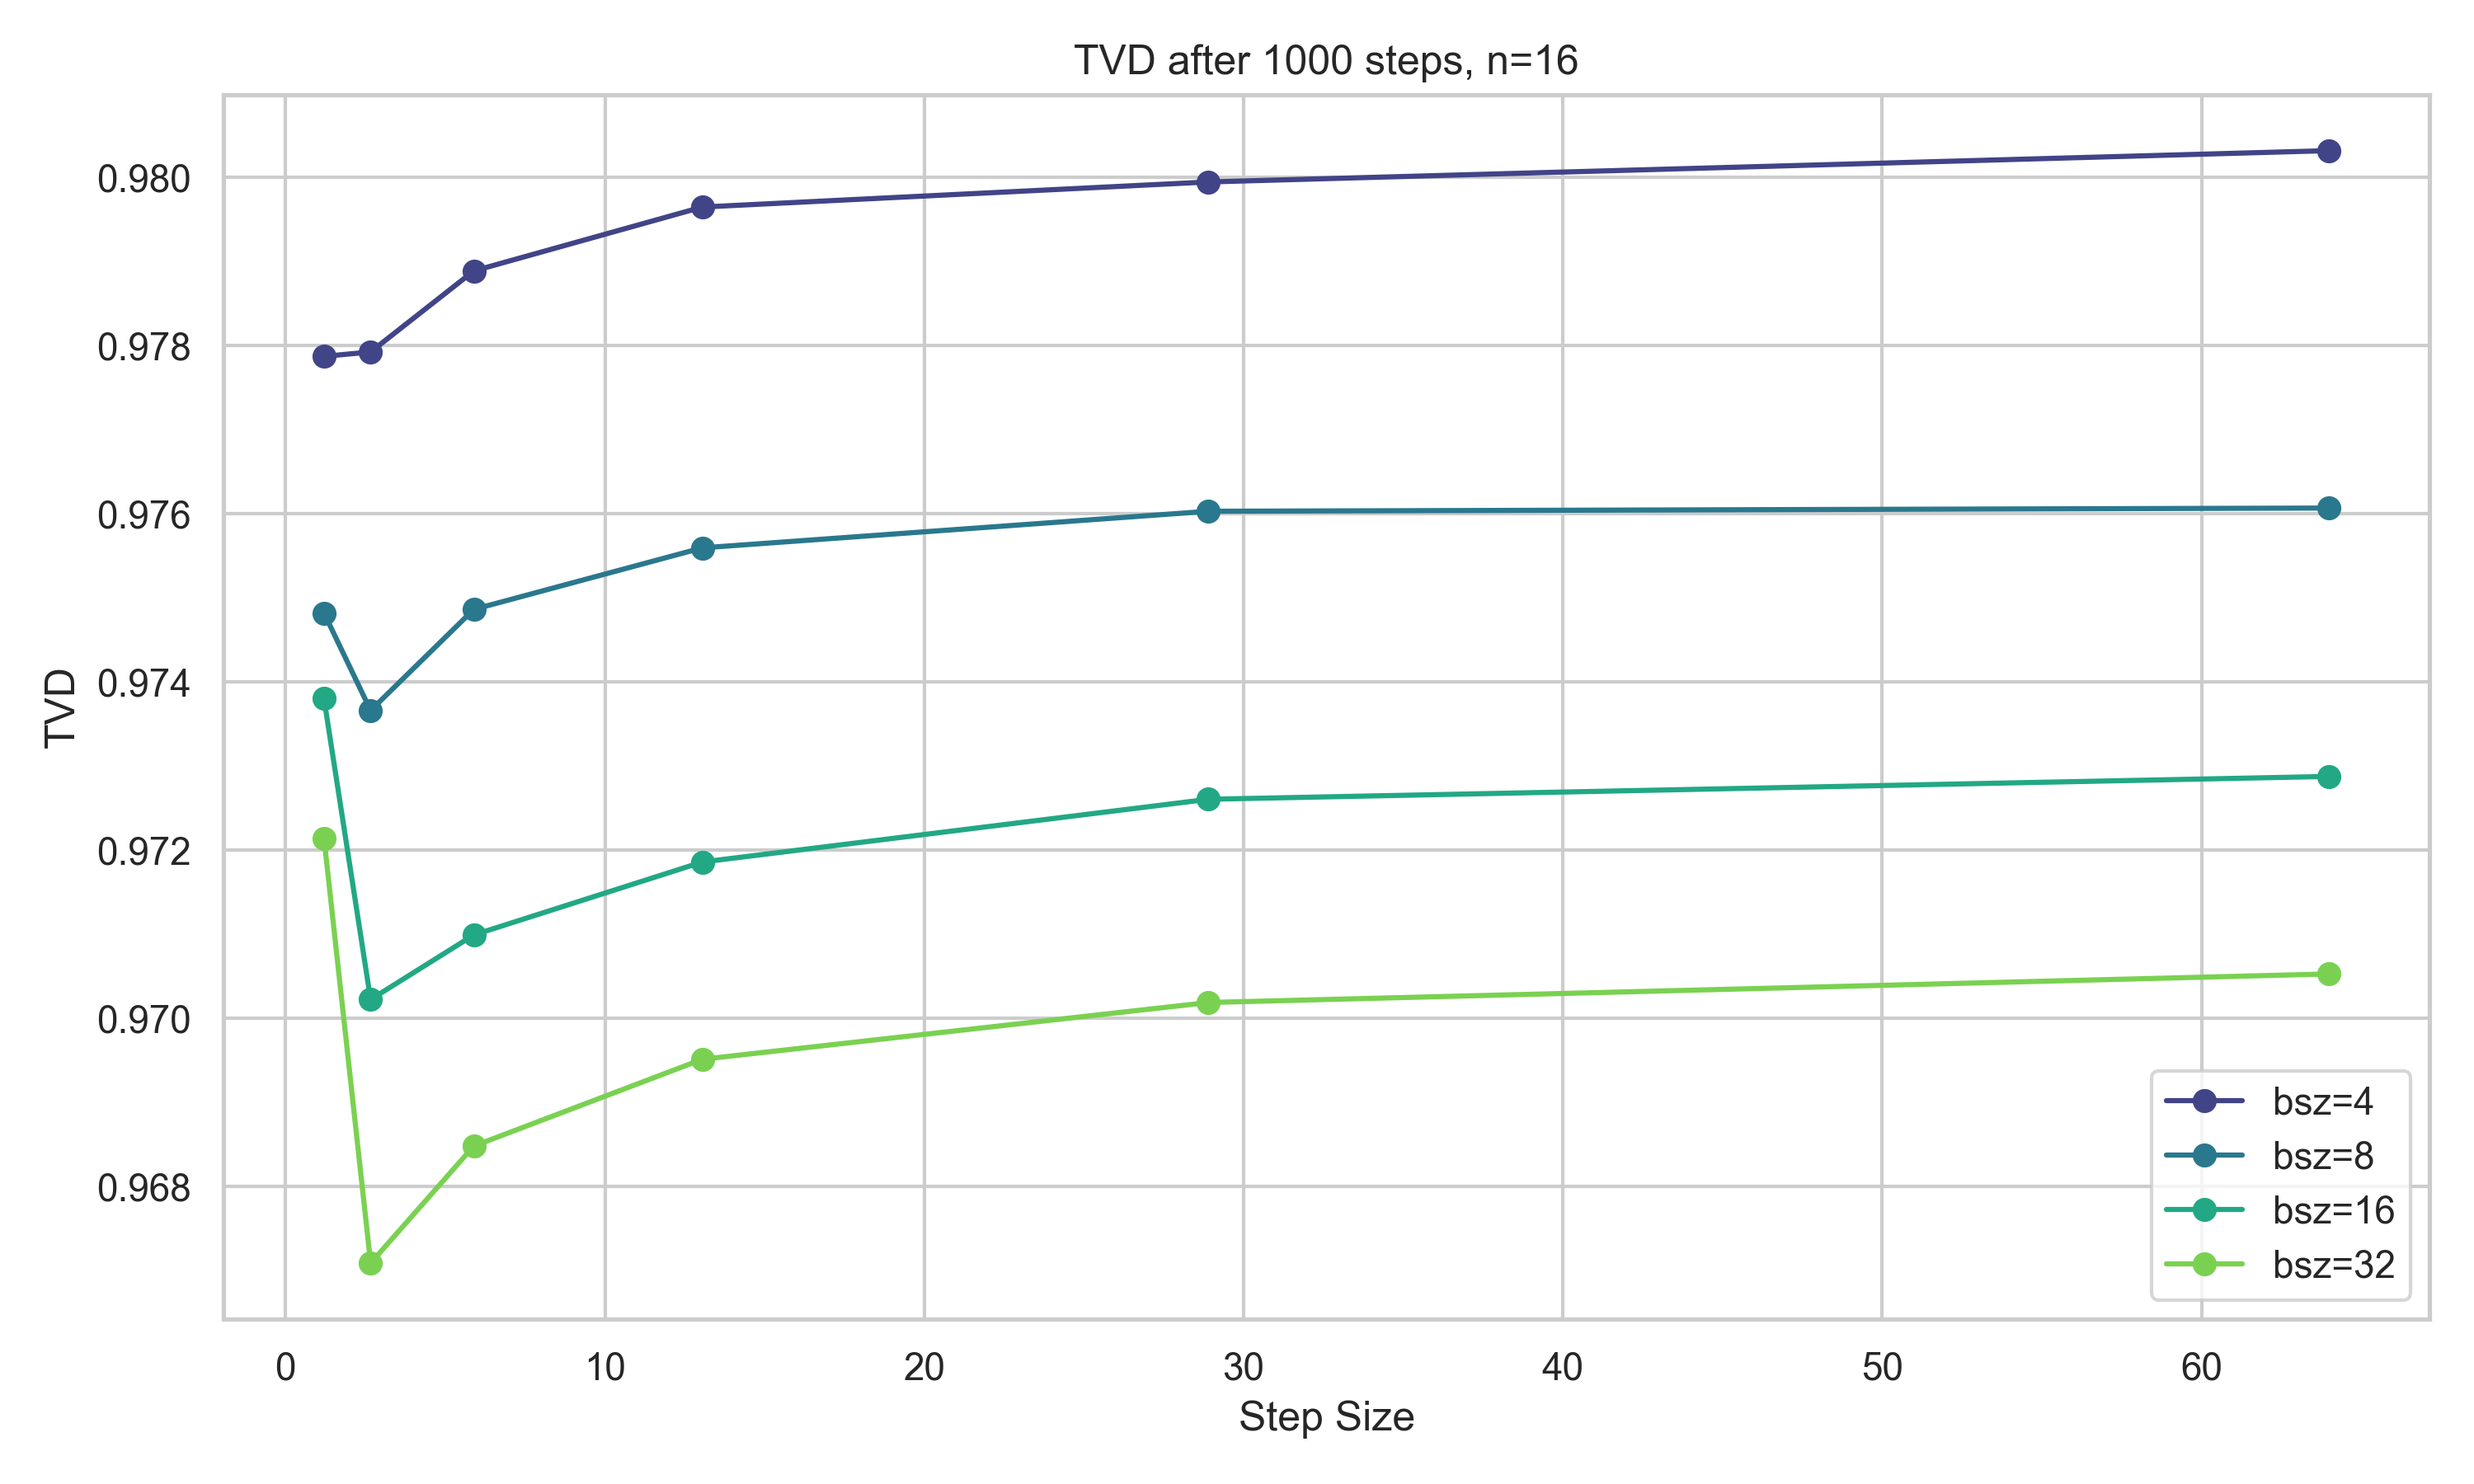
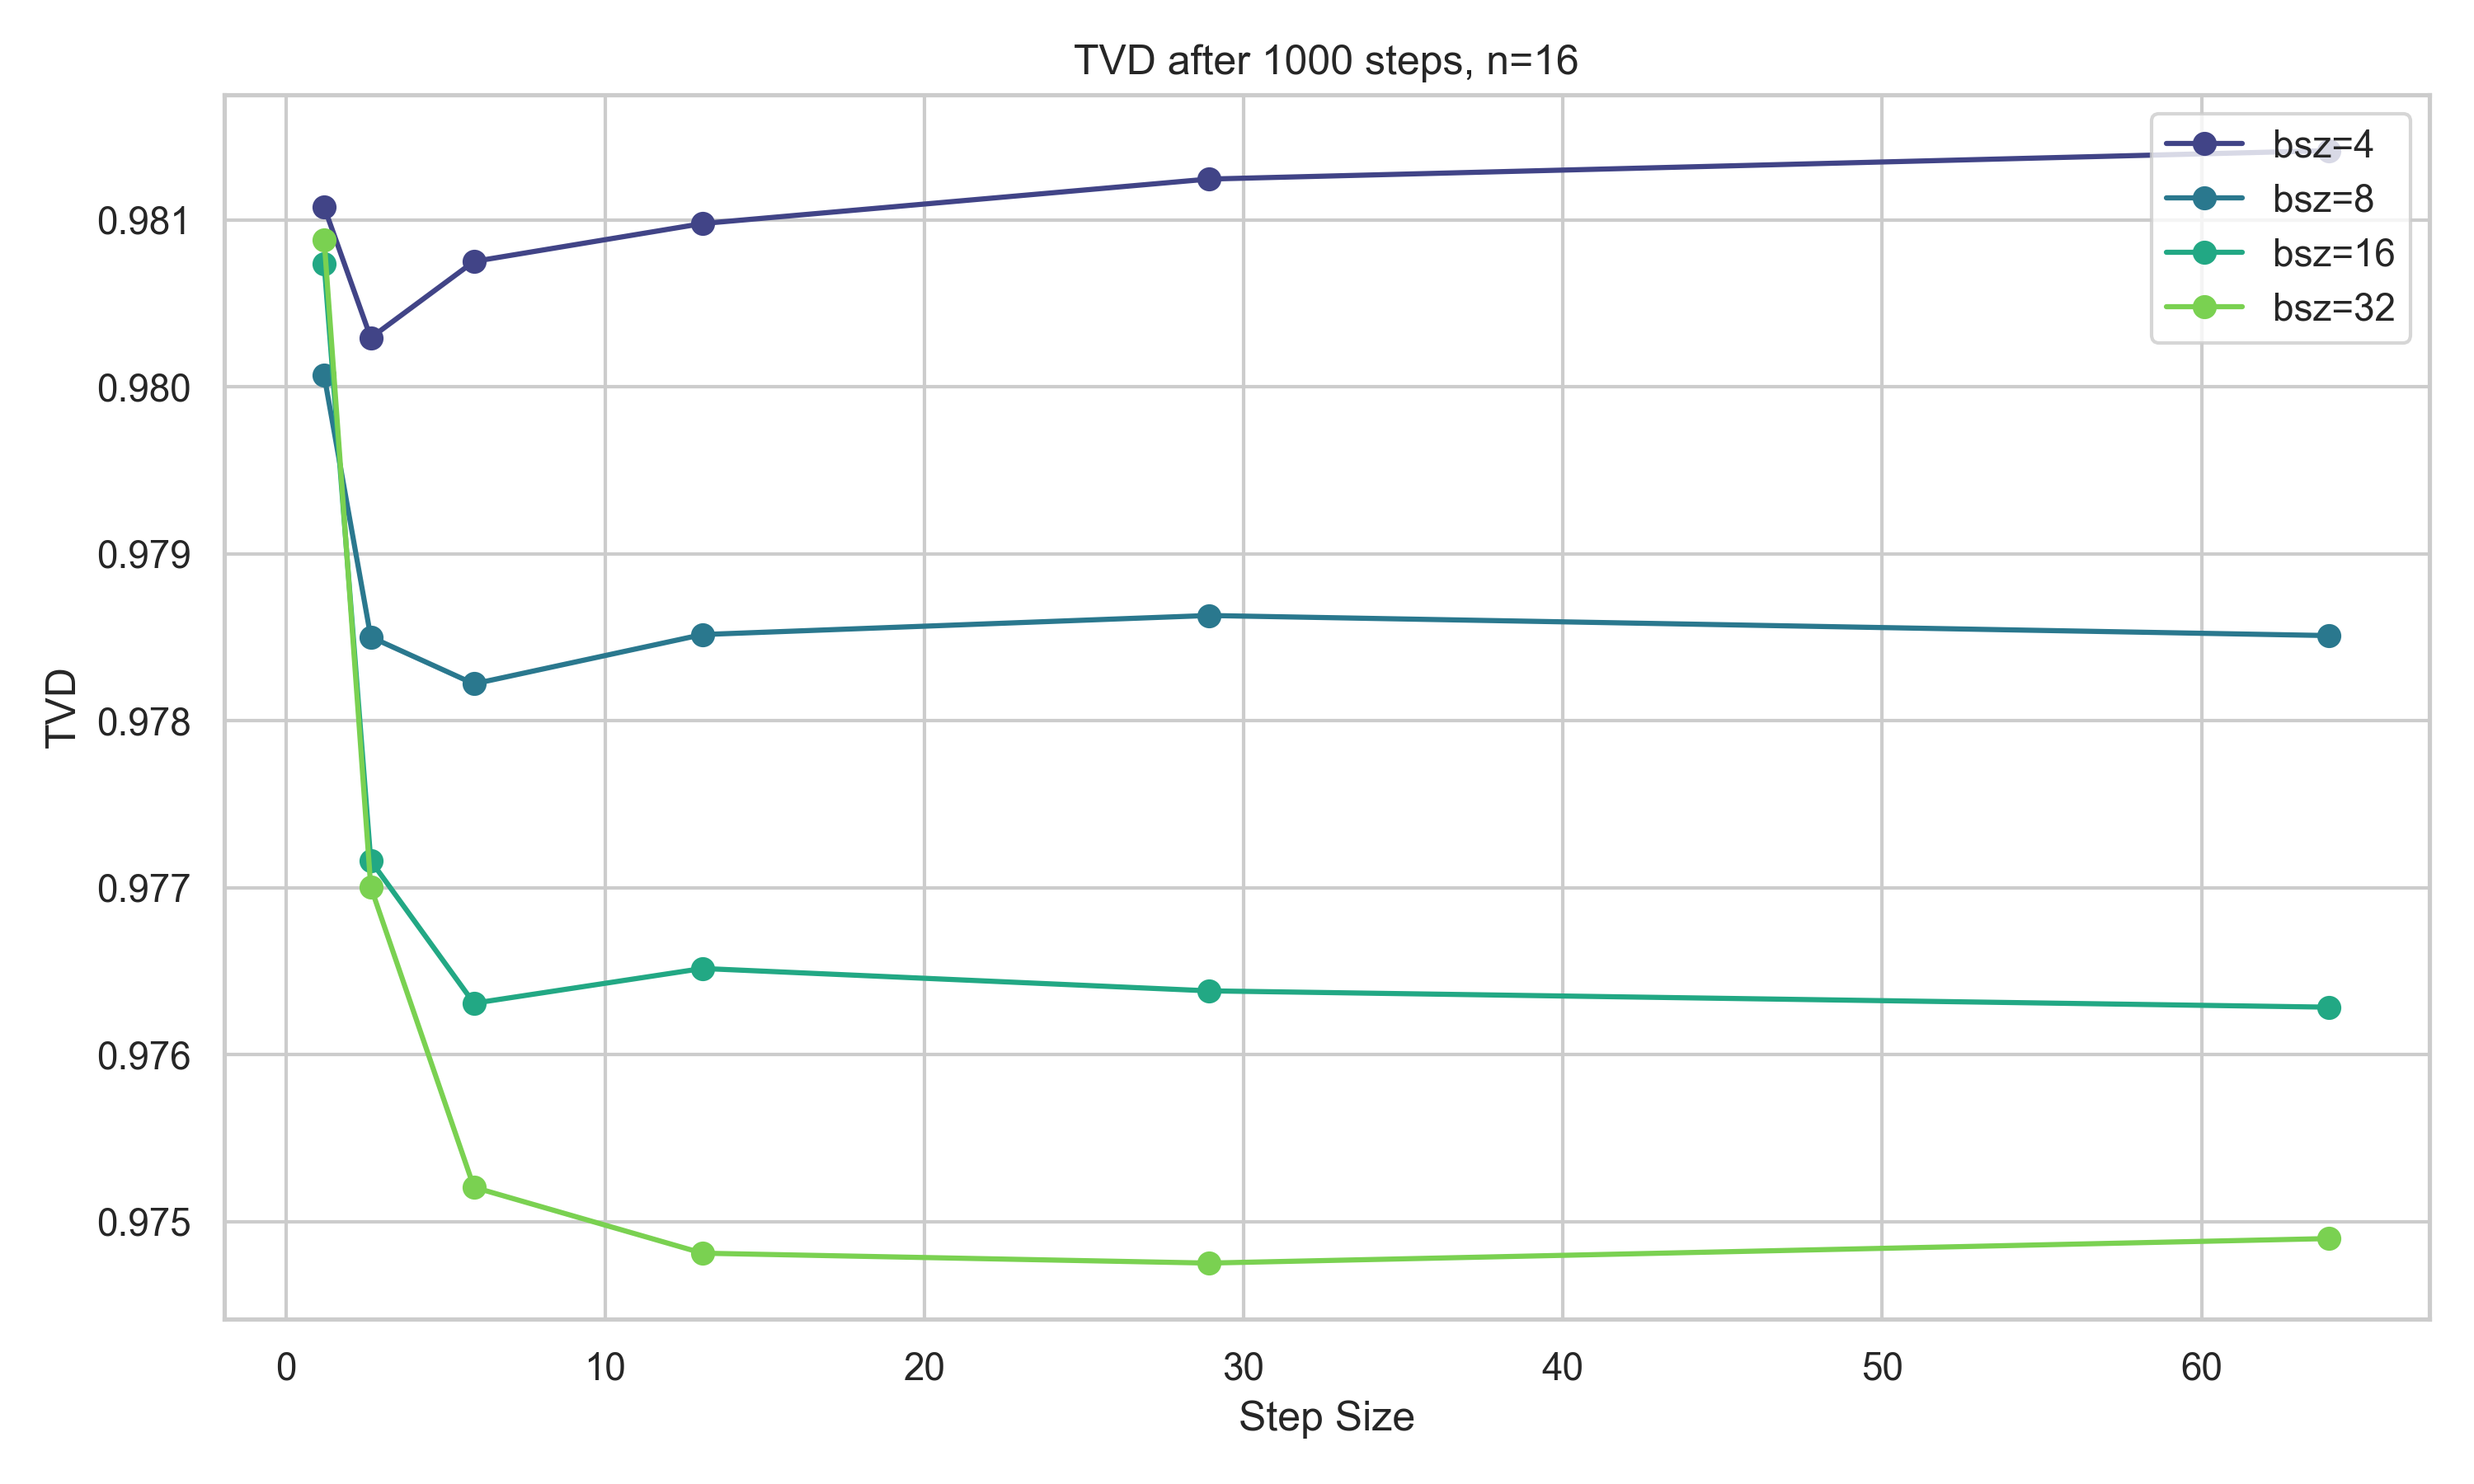
new figures and numbers after fixing mtm bug

diff --git a/repl/ising_repl.py b/repl/ising_repl.py
@@ -1,43 +1,61 @@
-# %%
-import json
-import pandas as pd
-from tabulate import tabulate
+# # %%
+# import json
+# import pandas as pd
+# from tabulate import tabulate
 
-with open('dumps/ising/tune_mtm_pncg.json') as f:
-    mtm_results = json.load(f)
+# with open('dumps/ising/tune_mtm_pncg.json') as f:
+#     mtm_results = json.load(f)
 
-df = pd.DataFrame(mtm_results)
+# df = pd.DataFrame(mtm_results)
 
-agg_df = df.groupby(['seqlen', 'num_samples', 'alpha']).agg(
-    mean_final_tvd=('final_tvd', 'mean'),
-    std_final_tvd=('final_tvd', 'std'),
-    mean_accept_rate=('accept_rate', 'mean'),
-    mean_wallclock=('wallclock', 'mean')
-).reset_index()
+# agg_df = df.groupby(['seqlen', 'num_samples', 'alpha']).agg(
+#     mean_final_tvd=('final_tvd', 'mean'),
+#     std_final_tvd=('final_tvd', 'std'),
+#     mean_accept_rate=('accept_rate', 'mean'),
+#     mean_wallclock=('wallclock', 'mean')
+# ).reset_index()
 
-def format_table(data):
-    formatted_data = data.copy()
-    formatted_data['alpha'] = formatted_data['alpha'].map(lambda x: f"{x:.4f}")
-    formatted_data['mean_final_tvd'] = formatted_data['mean_final_tvd'].map(lambda x: f"{x:.6f}")
-    formatted_data['std_final_tvd'] = formatted_data['std_final_tvd'].map(lambda x: f"{x:.6f}")
-    formatted_data['mean_accept_rate'] = formatted_data['mean_accept_rate'].map(lambda x: f"{x:.2%}")
-    formatted_data['mean_wallclock'] = formatted_data['mean_wallclock'].map(lambda x: f"{x:.4f}s")
+# def format_table(data):
+#     formatted_data = data.copy()
+#     formatted_data['alpha'] = formatted_data['alpha'].map(lambda x: f"{x:.4f}")
+#     formatted_data['mean_final_tvd'] = formatted_data['mean_final_tvd'].map(lambda x: f"{x:.6f}")
+#     formatted_data['std_final_tvd'] = formatted_data['std_final_tvd'].map(lambda x: f"{x:.6f}")
+#     formatted_data['mean_accept_rate'] = formatted_data['mean_accept_rate'].map(lambda x: f"{x:.2%}")
+#     formatted_data['mean_wallclock'] = formatted_data['mean_wallclock'].map(lambda x: f"{x:.4f}s")
 
-    if 'seqlen' in formatted_data.columns:
-        formatted_data = formatted_data.drop(columns=['seqlen'])
+#     if 'seqlen' in formatted_data.columns:
+#         formatted_data = formatted_data.drop(columns=['seqlen'])
 
-    return formatted_data
+#     return formatted_data
 
-unique_seqlens = sorted(agg_df['seqlen'].unique())
+# unique_seqlens = sorted(agg_df['seqlen'].unique())
 
-for seqlen in unique_seqlens:
-    print(f"\n## Sequence Length = {seqlen}\n")
-    seqlen_data = agg_df[agg_df['seqlen'] == seqlen]
-    seqlen_data = seqlen_data.sort_values(['num_samples', 'alpha'])
-    formatted_data = format_table(seqlen_data)
-    print(tabulate(formatted_data, headers='keys', tablefmt='pipe', showindex=False))
+# best_settings = []
+# for seqlen in unique_seqlens:
+#     seqlen_data = agg_df[agg_df['seqlen'] == seqlen]
+#     best_row = seqlen_data.loc[seqlen_data['mean_final_tvd'].idxmin()]
+#     best_settings.append({
+#         'seqlen': int(best_row['seqlen']),
+#         'num_samples': int(best_row['num_samples']),
+#         'alpha': best_row['alpha'],
+#         'mean_final_tvd': best_row['mean_final_tvd'],
+#         'std_final_tvd': best_row['std_final_tvd'],
+#         'mean_accept_rate': best_row['mean_accept_rate'],
+#         'mean_wallclock': best_row['mean_wallclock'],
+#     })
 
-# %%
+# best_df = pd.DataFrame(best_settings)
+# formatted_best = format_table(best_df)
+# print(tabulate(formatted_best, headers='keys', tablefmt='pipe', showindex=False))
+
+# for seqlen in unique_seqlens:
+#     print(f"\n## Sequence Length = {seqlen}\n")
+#     seqlen_data = agg_df[agg_df['seqlen'] == seqlen]
+#     seqlen_data = seqlen_data.sort_values(['num_samples', 'alpha'])
+#     formatted_data = format_table(seqlen_data)
+#     print(tabulate(formatted_data, headers='keys', tablefmt='pipe', showindex=False))
+
+# # %%
 # import json
 # import pandas as pd
 # import matplotlib.pyplot as plt
@@ -87,7 +105,8 @@ for seqlen in unique_seqlens:
 #     ax.legend()
 
 #     plt.tight_layout()
-#     plt.savefig(f'tvd_vs_alpha_seqlen_{seqlen}.png', dpi=300)
+#     plt.savefig(f'figures/tvd_vs_alpha_seqlen_{seqlen}.png', dpi=300)
+#     # plt.show()
 
 # # %%
 # with open('dumps/ising/tune_pncg.json') as f:

diff --git a/LOG.md b/LOG.md
@@ -57,3 +57,11 @@ Computing the entire proposal distribution naively requires materializing a (B, 
 At B=1, N=20, V=50000, E=768, and float32, this is pushing 25GB. Need to mess around at either fp16 or bf16. Maybe lower.
 
 Also, caught a bug in the Ising model experiments, though I'm not sure how much they'll touch downstream results.
+
+## 4/14: 6ed4d25773ff9e5a2550b1ddbcfc485de5501639
+
+| seqlen | num_samples | alpha   | mean_final_tvd | std_final_tvd | mean_accept_rate | mean_wallclock |
+|--------|-------------|---------|----------------|---------------|------------------|----------------|
+| 4      | 16          | 28.9024 | 0.055374       | 0.013763      | 89.79%           | 2.5018s        |
+| 8      | 32          | 64      | 0.221579       | 0.008149      | 89.45%           | 2.5624s        |
+| 16     | 32          | 28.9024 | 0.974751       | 0.000836      | 84.14%           | 2.8522s        |
